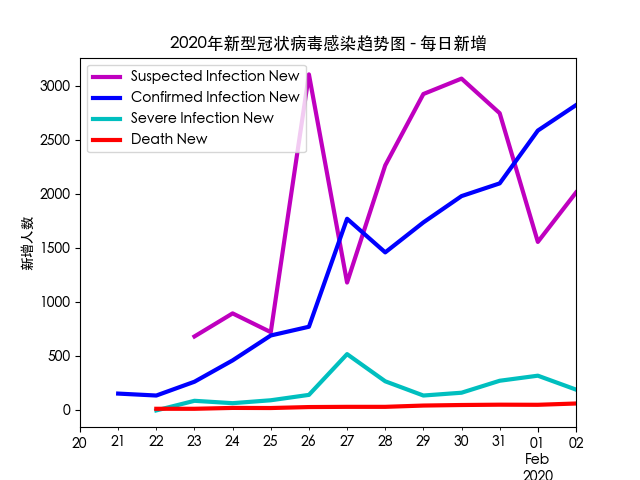
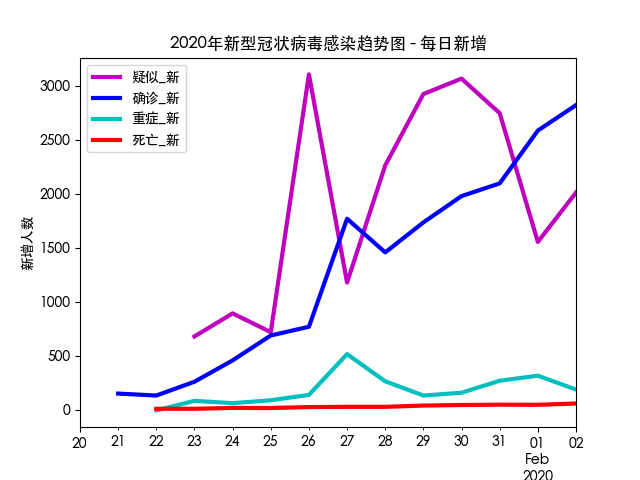
change column labels from English to Chinese

Changed region(s): [[0.1875, 0.125, 0.5, 0.3438]]

diff --git a/scripts/plot_chart.py b/scripts/plot_chart.py
@@ -6,27 +6,27 @@ import matplotlib.dates as mdates
 df = pd.read_csv(
 	'../data/pandemic2020.csv',
 	dtype={
-		'Close Contact': 'float',
-		'In Treatment': 'float',
-		'Suspected Infection': 'float',
-		'Confirmed Infection': 'float',
-		'Severe Infection': 'float',
-		'Death': 'float',
-		'Cured': 'float'
+		'接触': 'float',
+		'观察': 'float',
+		'疑似': 'float',
+		'确诊': 'float',
+		'重症': 'float',
+		'死亡': 'float',
+		'治愈': 'float'
 		}
 	)
-df['Date'] = pd.to_datetime(df['Date'])
+df['日期'] = pd.to_datetime(df['日期'])
 
 # print(df)
 # print(df.dtypes)
 
-df['Close Contact New'] = df['Close Contact'].diff()
-df['In Treatment New'] = df['In Treatment'].diff()
-df['Suspected Infection New'] = df['Suspected Infection'].diff()
-df['Confirmed Infection New'] = df['Confirmed Infection'].diff()
-df['Severe Infection New'] = df['Severe Infection'].diff()
-df['Death New'] = df['Death'].diff()
-df['Cured New'] = df['Cured'].diff()
+df['接触_新'] = df['接触'].diff()
+df['观察_新'] = df['观察'].diff()
+df['疑似_新'] = df['疑似'].diff()
+df['确诊_新'] = df['确诊'].diff()
+df['重症_新'] = df['重症'].diff()
+df['死亡_新'] = df['死亡'].diff()
+df['治愈_新'] = df['治愈'].diff()
 
 # print(df)
 
@@ -39,8 +39,8 @@ plt.rcParams["font.family"]= "Heiti TC"
 # ------------ Plot Life-To-Date Chart for the Big 4 --------------------------
 
 fig = df.plot(
-	x='Date', 
-	y=['Suspected Infection', 'Confirmed Infection', 'Severe Infection','Death'],
+	x='日期', 
+	y=['疑似', '确诊', '重症','死亡'],
 	style=['m', 'b', 'c', 'r'],
 	linewidth=3
 )
@@ -57,8 +57,8 @@ plt.close()
 # ------------ Plot Daily Net New Chart for the Big 4 -------------------------
 
 df.plot(
-	x='Date', 
-	y=['Suspected Infection New', 'Confirmed Infection New', 'Severe Infection New','Death New'],
+	x='日期', 
+	y=['疑似_新', '确诊_新', '重症_新','死亡_新'],
 	style=['m', 'b', 'c', 'r'],
 	linewidth=3
 )
@@ -75,8 +75,8 @@ plt.close()
 # ------------ Plot Life-to-Date for Death and Cured --------------------------
 
 df.plot(
-	x='Date', 
-	y=['Death', 'Cured'],
+	x='日期', 
+	y=['死亡', '治愈'],
 	style=['r', 'g'],
 	linewidth=3
 )
